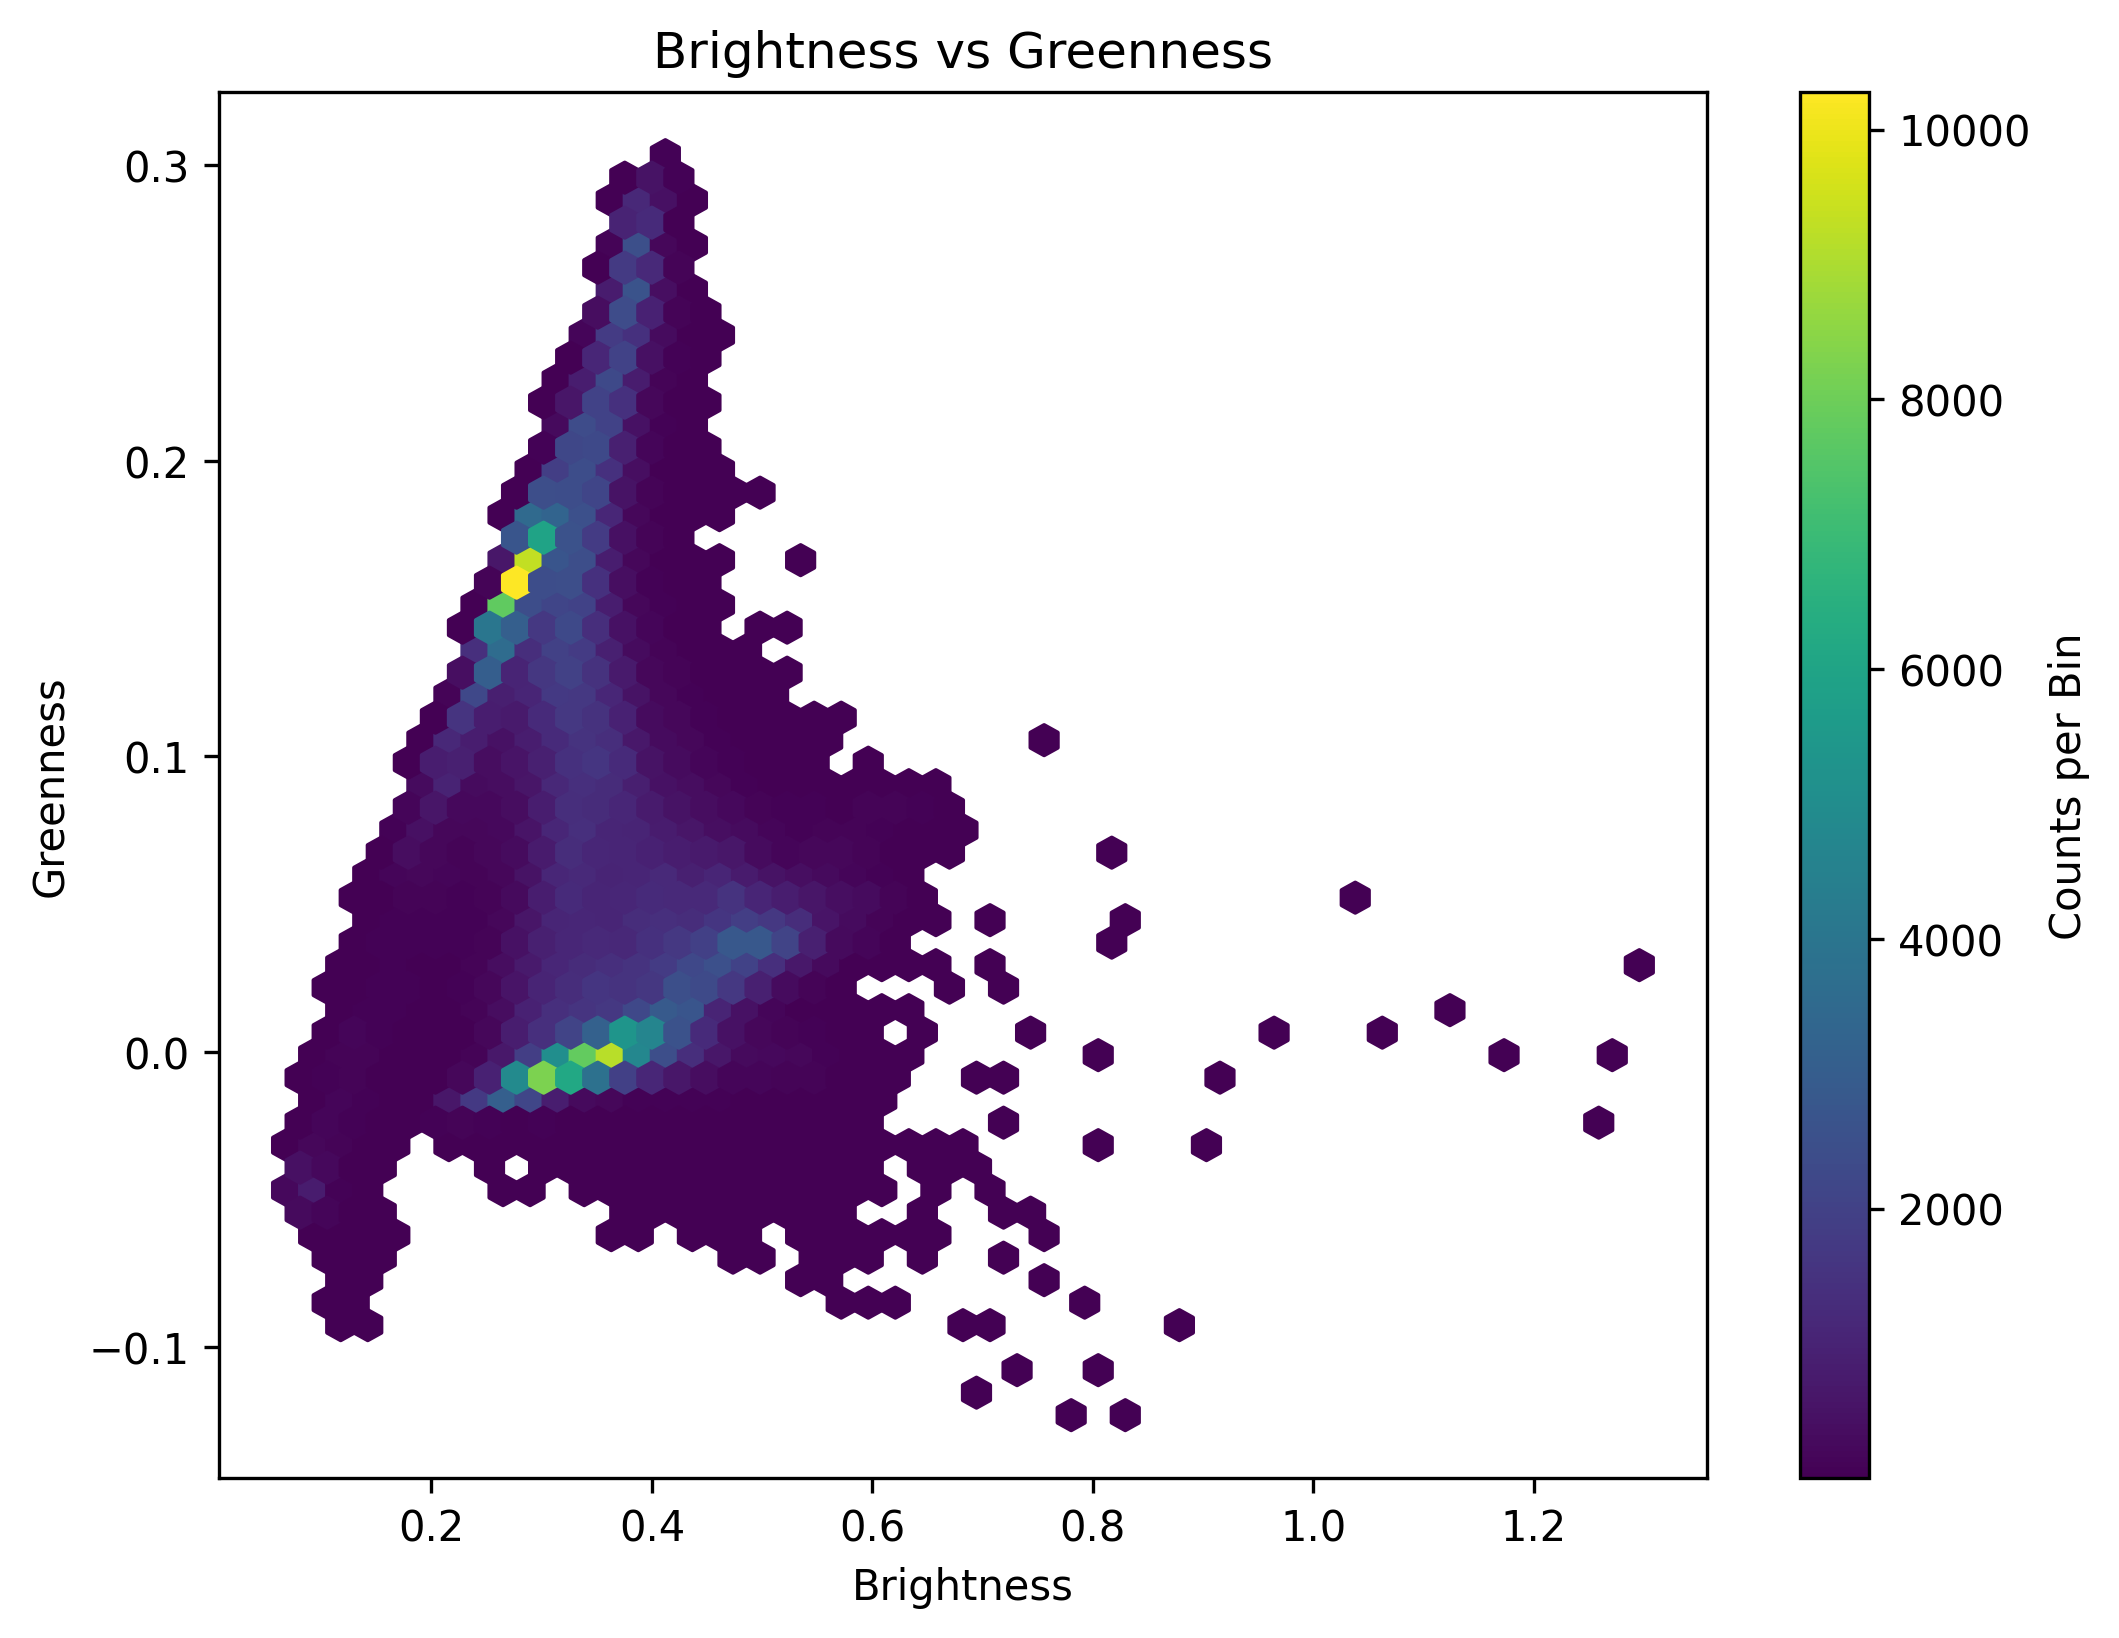
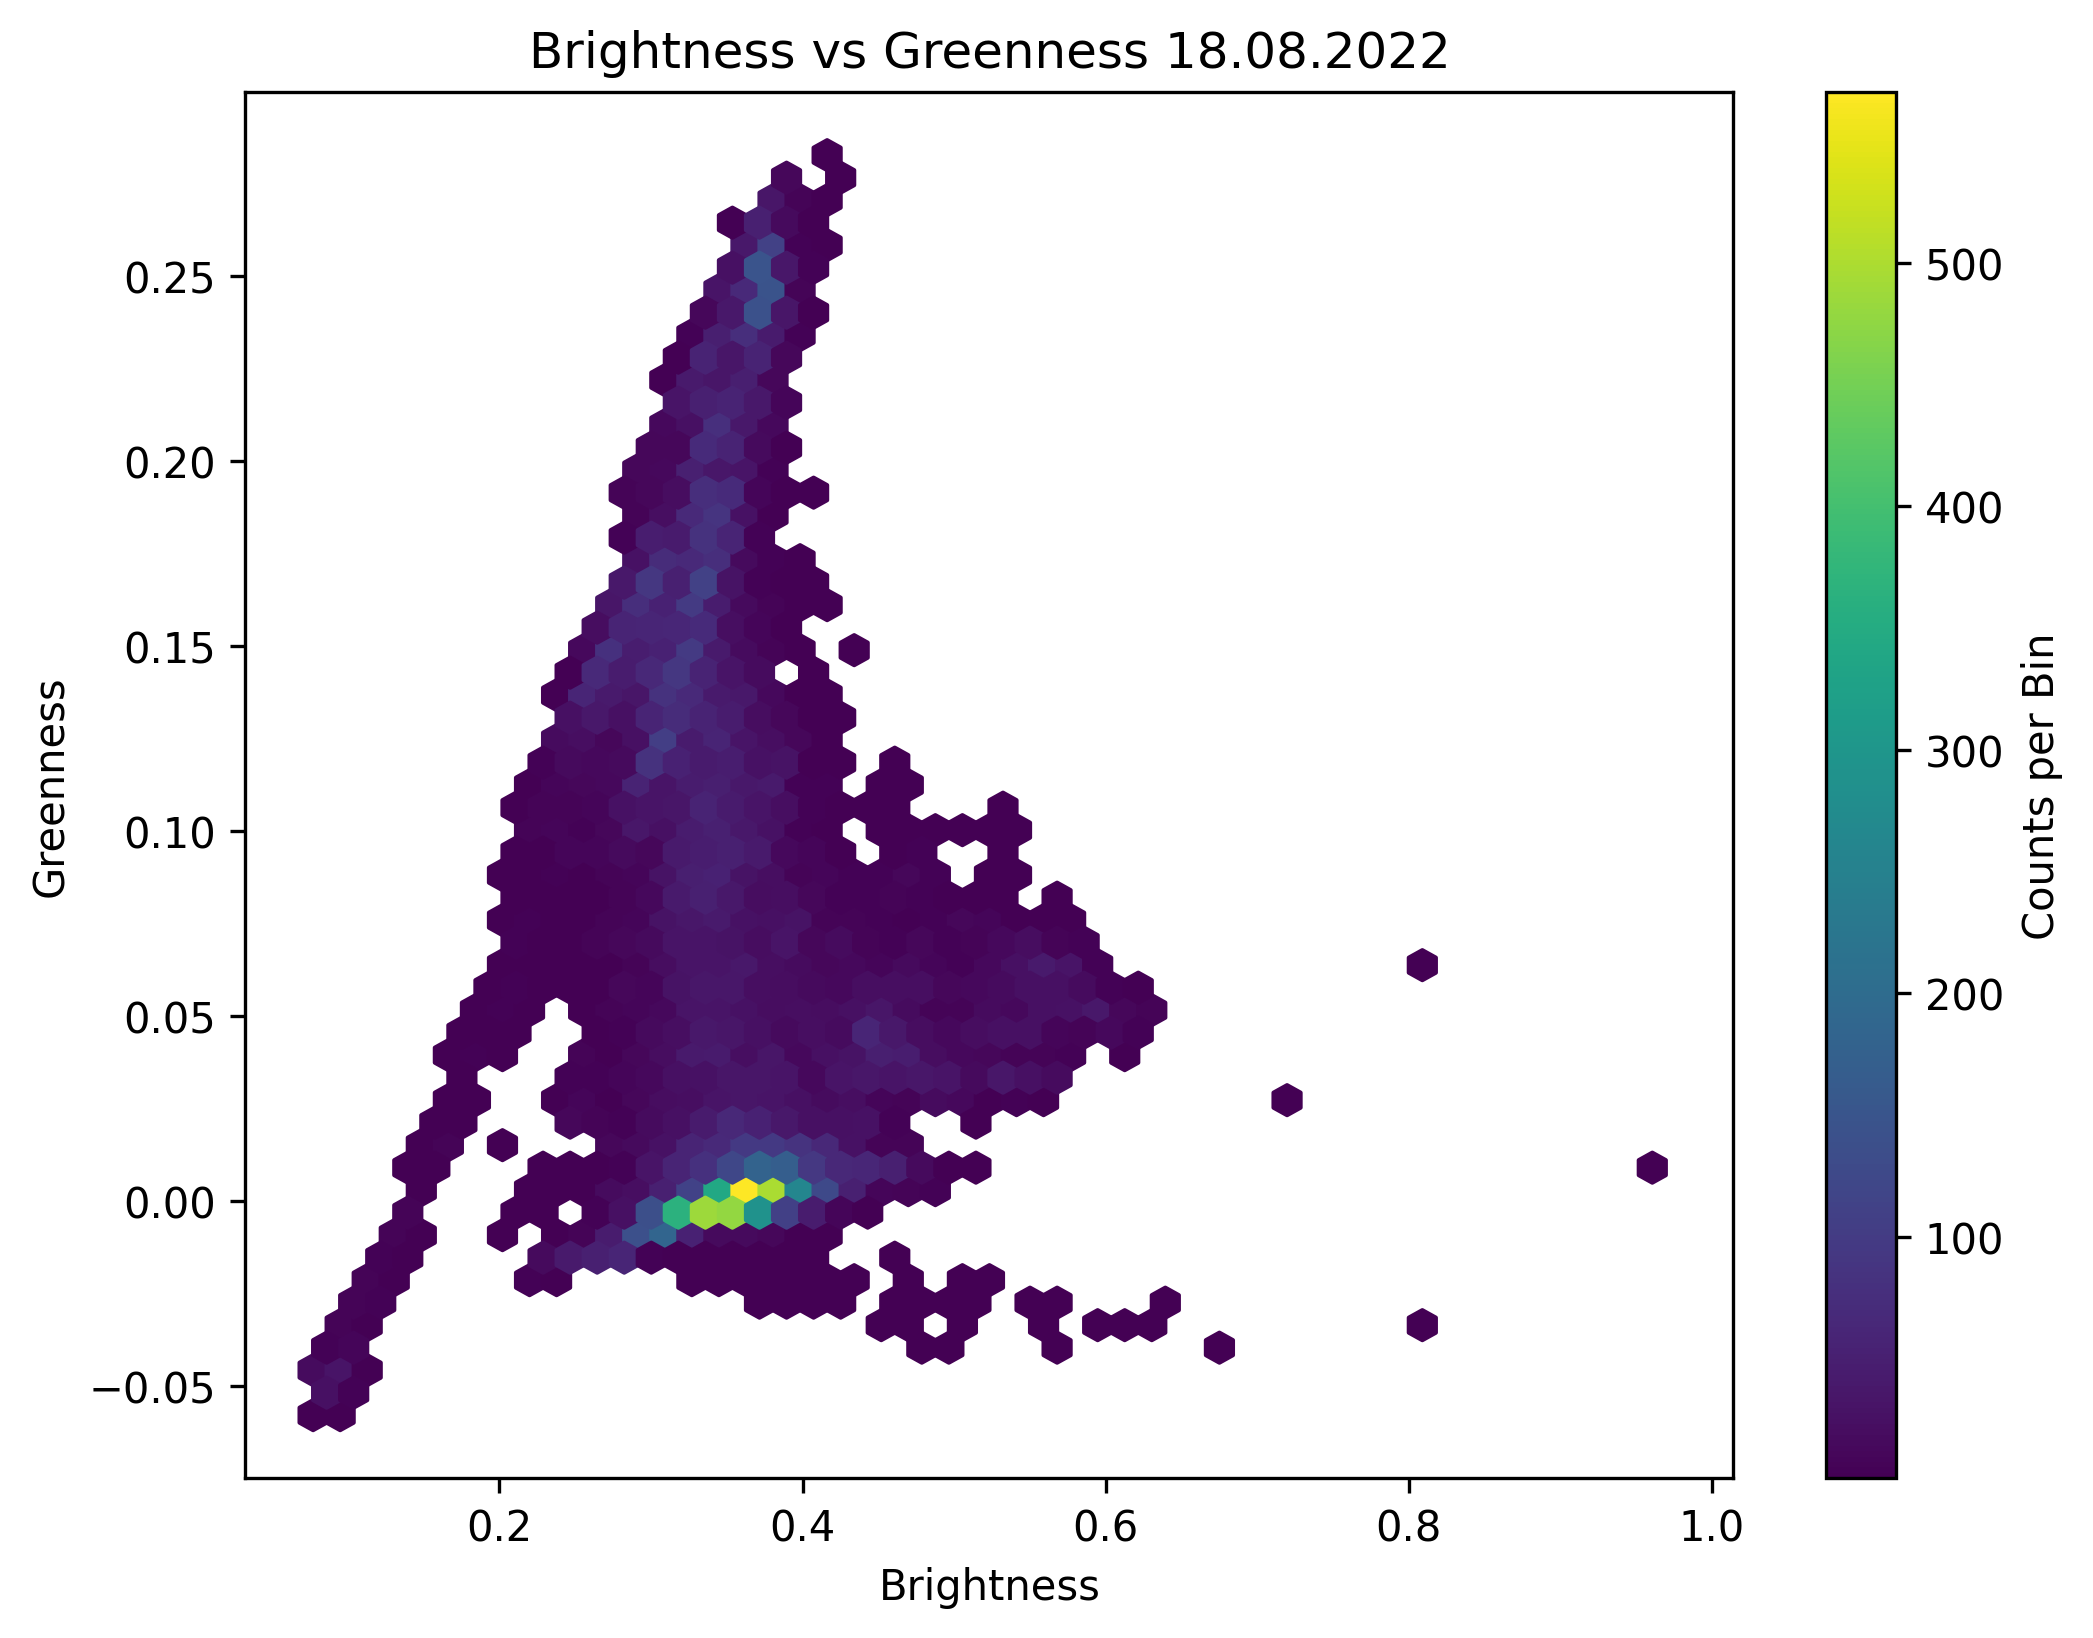
task01: created new hexbins from clipped rasters

diff --git a/task_01.py b/task_01.py
@@ -52,14 +52,22 @@ def cap_transformation(cbd): #input: calibrated band dictionary
     wetness	= (0.0000*cbd[1] + 0.1511*cbd[2] + 0.1973*cbd[3] + 0.3283*cbd[4] + 0.3407*cbd[5] - 0.7117*cbd[6] - 0.4559*cbd[7])
     return brigthness, greenness, wetness
 
-def create_hexbin_plot(x_axis, y_axis, name, gridsize=50, cmap="viridis"):
+def format_date(date):
+    year = date[:4]
+    month = date[4:6]
+    day = date[6:]
+    formatted_date = f"{day:02}.{month:02}.{year}"
+    return formatted_date
+
+def create_hexbin_plot(x_axis, y_axis, date, gridsize=50, cmap="viridis"):
+    formated_date = format_date(date)
     plt.figure(figsize=(8, 6))
     hb = plt.hexbin(x_axis, y_axis, gridsize=gridsize, cmap=cmap, mincnt=1)
     plt.colorbar(hb, label="Counts per Bin")
-    plt.title("Brightness vs Greenness")
+    plt.title(f"Brightness vs Greenness {formated_date}")
     plt.xlabel("Brightness")
     plt.ylabel("Greenness")
-    plt.savefig(name, dpi=300, bbox_inches="tight")
+    plt.savefig(date, dpi=300, bbox_inches="tight")
 
 def procces_image(metadata_image):
     data_folder = os.path.dirname(metadata_image)

diff --git a/clip_raster.py b/clip_raster.py
@@ -2,9 +2,9 @@ import rasterio
 from rasterio.windows import Window
 import os
 
-image_dir = r"data\21_03_2022"
+image_dir = r"data\05_08_2022"
 clip_file = r"data\clip_area.shp"
-output_dir = r"data\21_03_2022_clipped"
+output_dir = r"data\05_08_2022_clipped"
 
 if not os.path.exists(output_dir):
     os.makedirs(output_dir)
